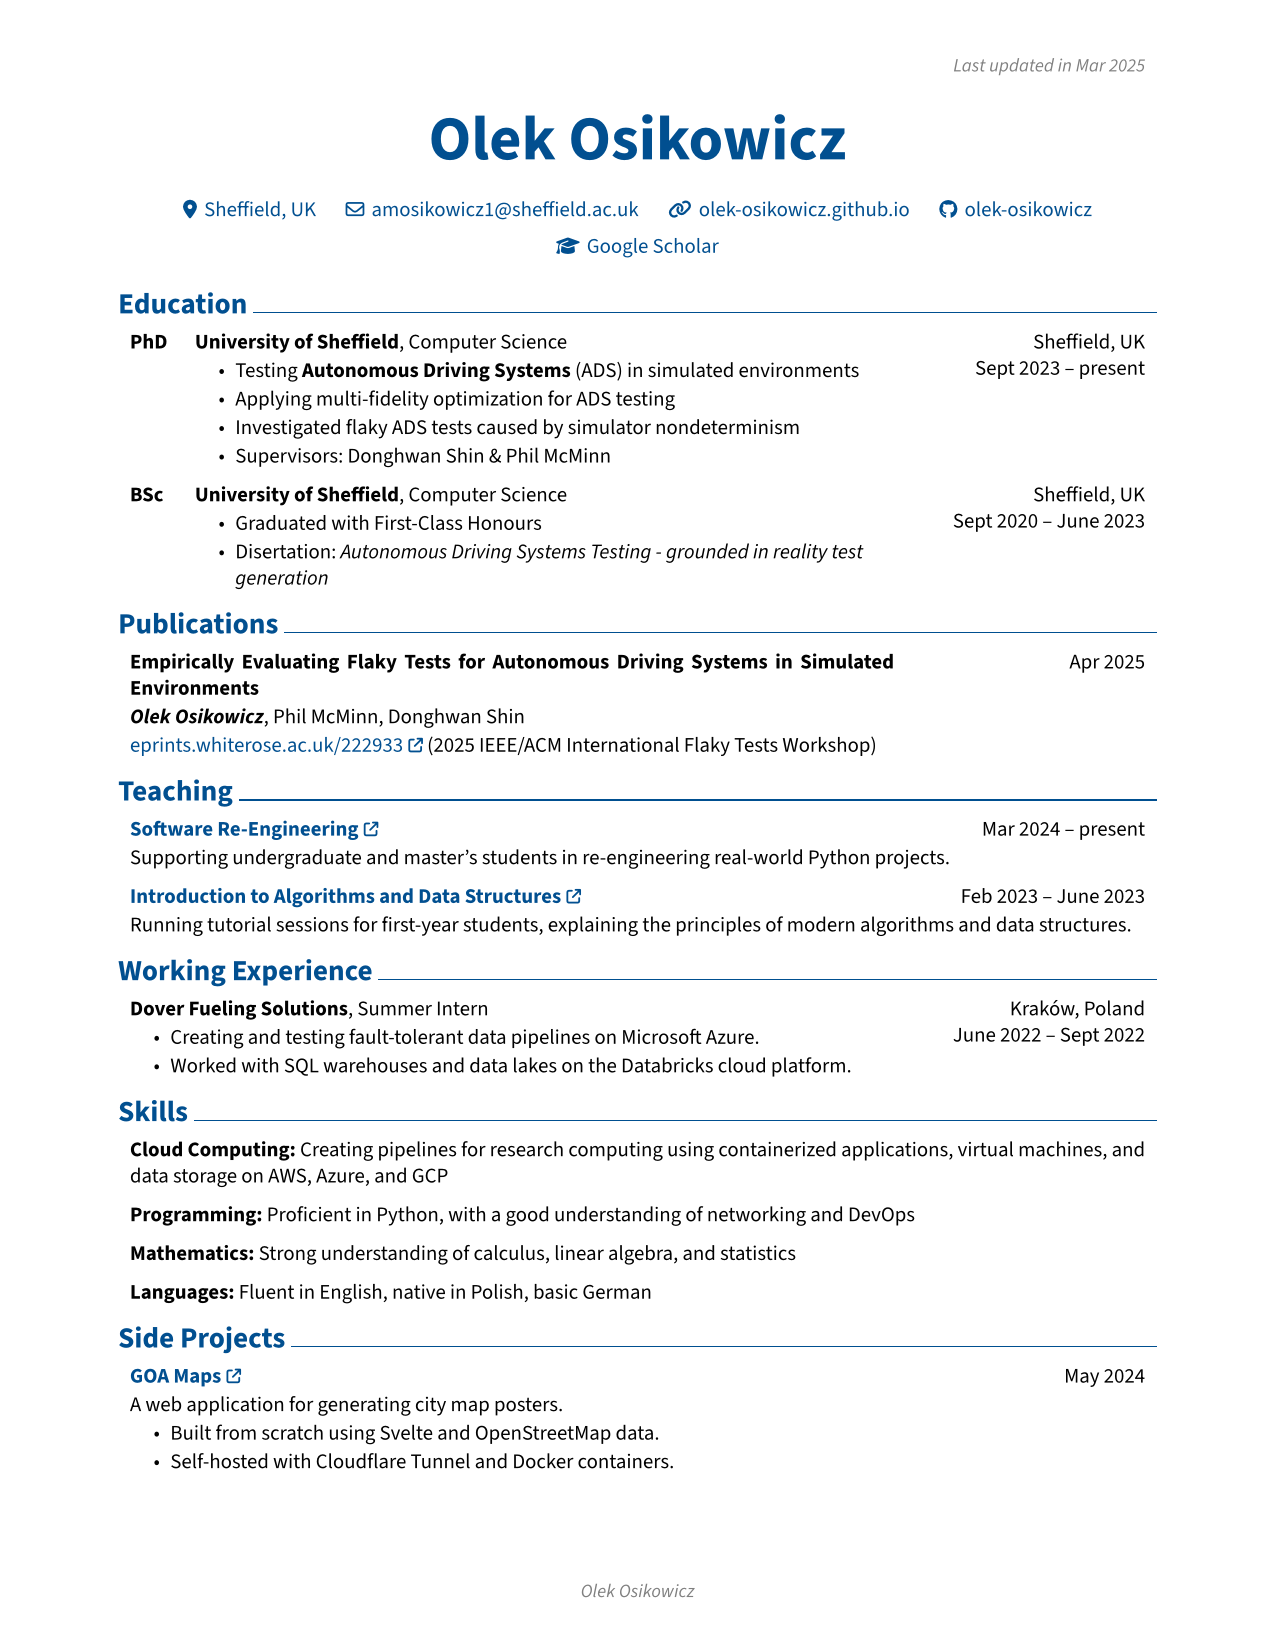
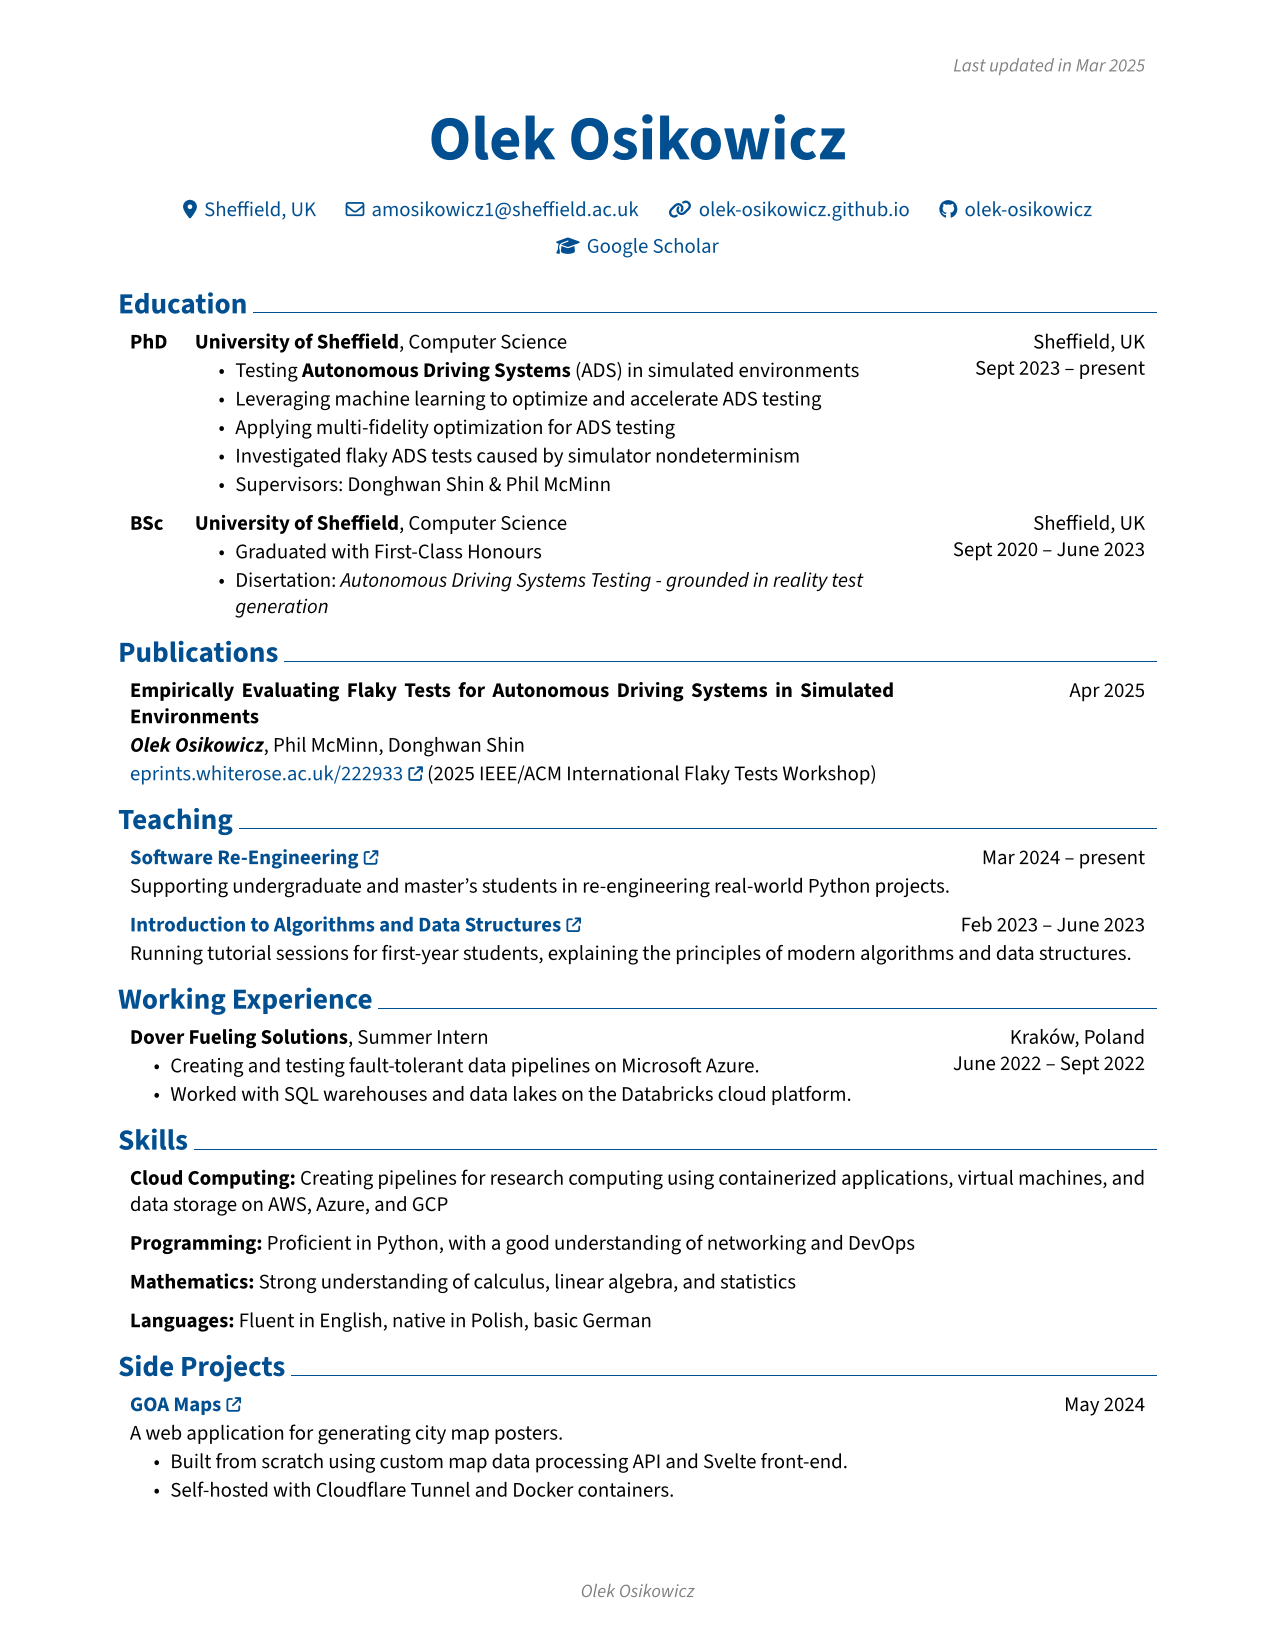
Add one more sentence about PhD

diff --git a/rendercv_output/Olek_Osikowicz_CV.html b/rendercv_output/Olek_Osikowicz_CV.html
@@ -53,6 +53,7 @@
         <li>Sept 2023 – present</li>
         <li>Sheffield, UK</li>
         <li>Testing <strong>Autonomous Driving Systems</strong> (ADS) in simulated environments</li>
+        <li>Leveraging machine learning to optimize and accelerate ADS testing</li>
         <li>Applying multi-fidelity optimization for ADS testing</li>
         <li>Investigated flaky ADS tests caused by simulator nondeterminism</li>
         <li>Supervisors: Donghwan Shin &amp; Phil McMinn</li>
@@ -99,7 +100,7 @@
         <h2><a href="https://goamaps.org/">GOA Maps</a></h2>
         <ul>
         <li>May 2024</li>
-        <li>Built from scratch using Svelte and OpenStreetMap data.</li>
+        <li>Built from scratch using custom map data processing API and Svelte front-end.</li>
         <li>Self-hosted with Cloudflare Tunnel and Docker containers.</li>
         </ul>
     </article>

diff --git a/rendercv_output/Olek_Osikowicz_CV.md b/rendercv_output/Olek_Osikowicz_CV.md
@@ -14,6 +14,7 @@
 - Sept 2023 – present
 - Sheffield, UK
 - Testing **Autonomous Driving Systems** (ADS) in simulated environments
+- Leveraging machine learning to optimize and accelerate ADS testing
 - Applying multi-fidelity optimization for ADS testing
 - Investigated flaky ADS tests caused by simulator nondeterminism
 - Supervisors: Donghwan Shin & Phil McMinn
@@ -62,6 +63,6 @@
 ## [GOA Maps](https://goamaps.org/)
 
 - May 2024
-- Built from scratch using Svelte and OpenStreetMap data.
+- Built from scratch using custom map data processing API and Svelte front-end.
 - Self-hosted with Cloudflare Tunnel and Docker containers.
 
